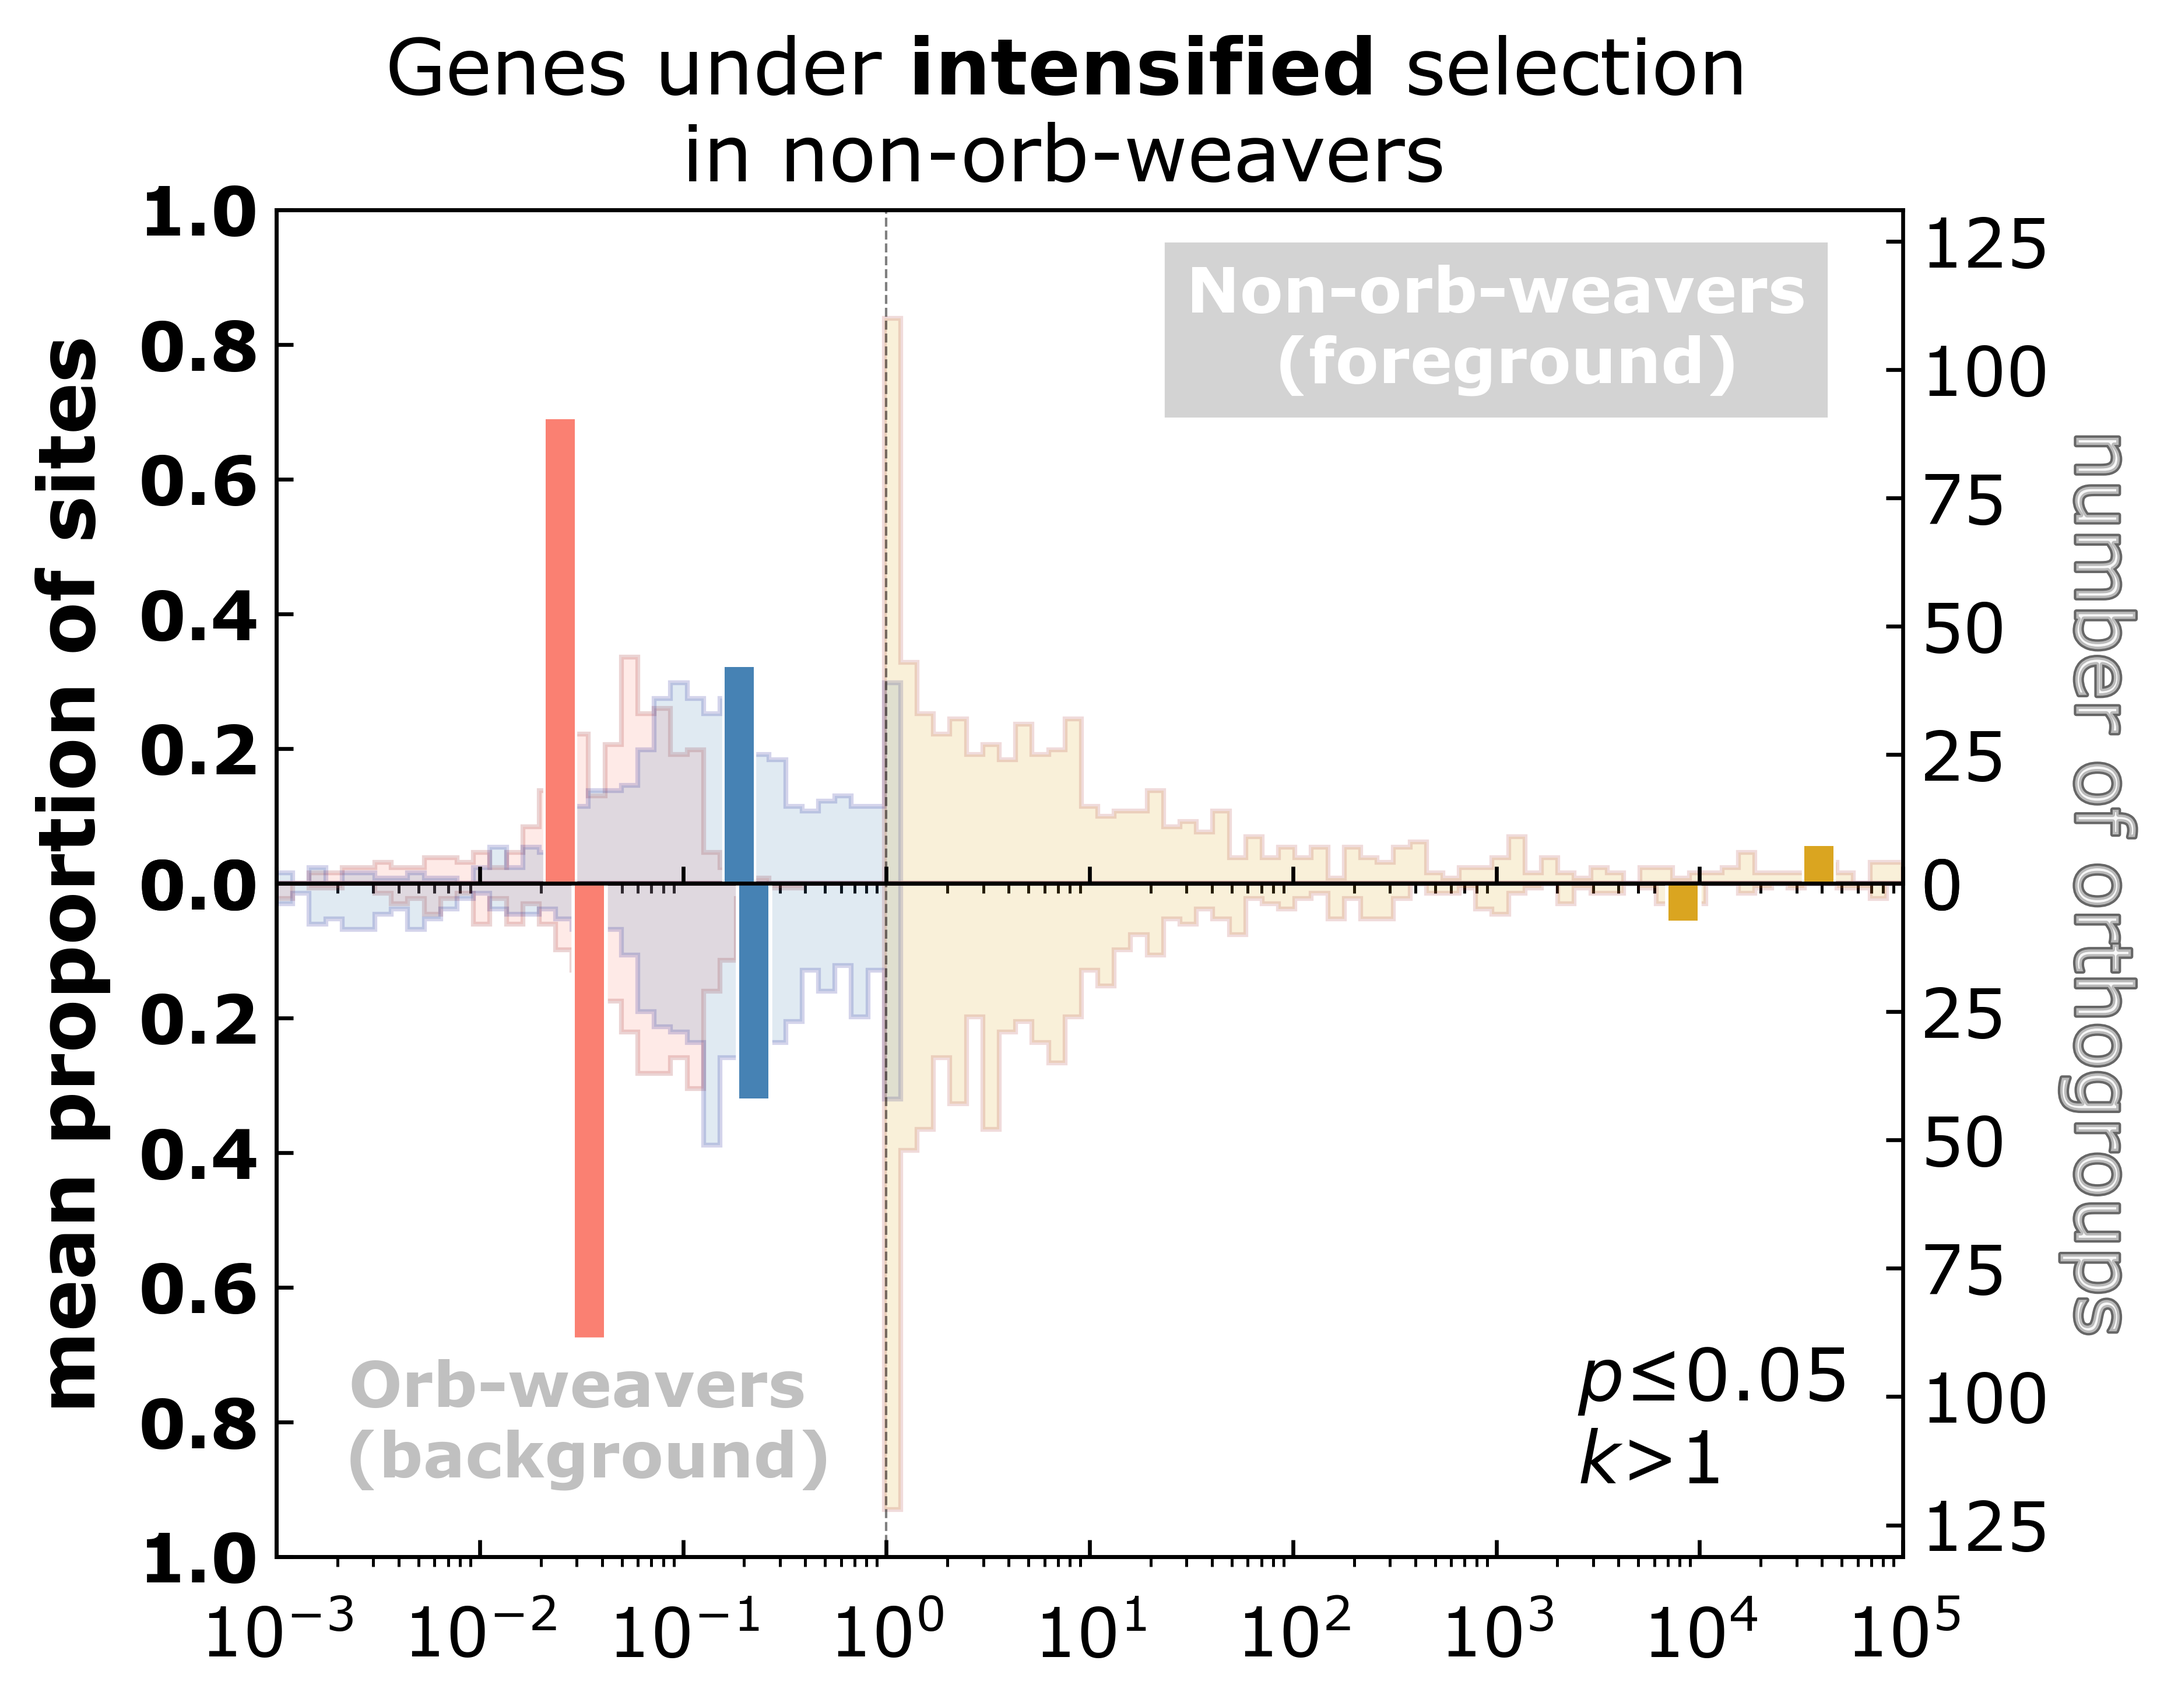
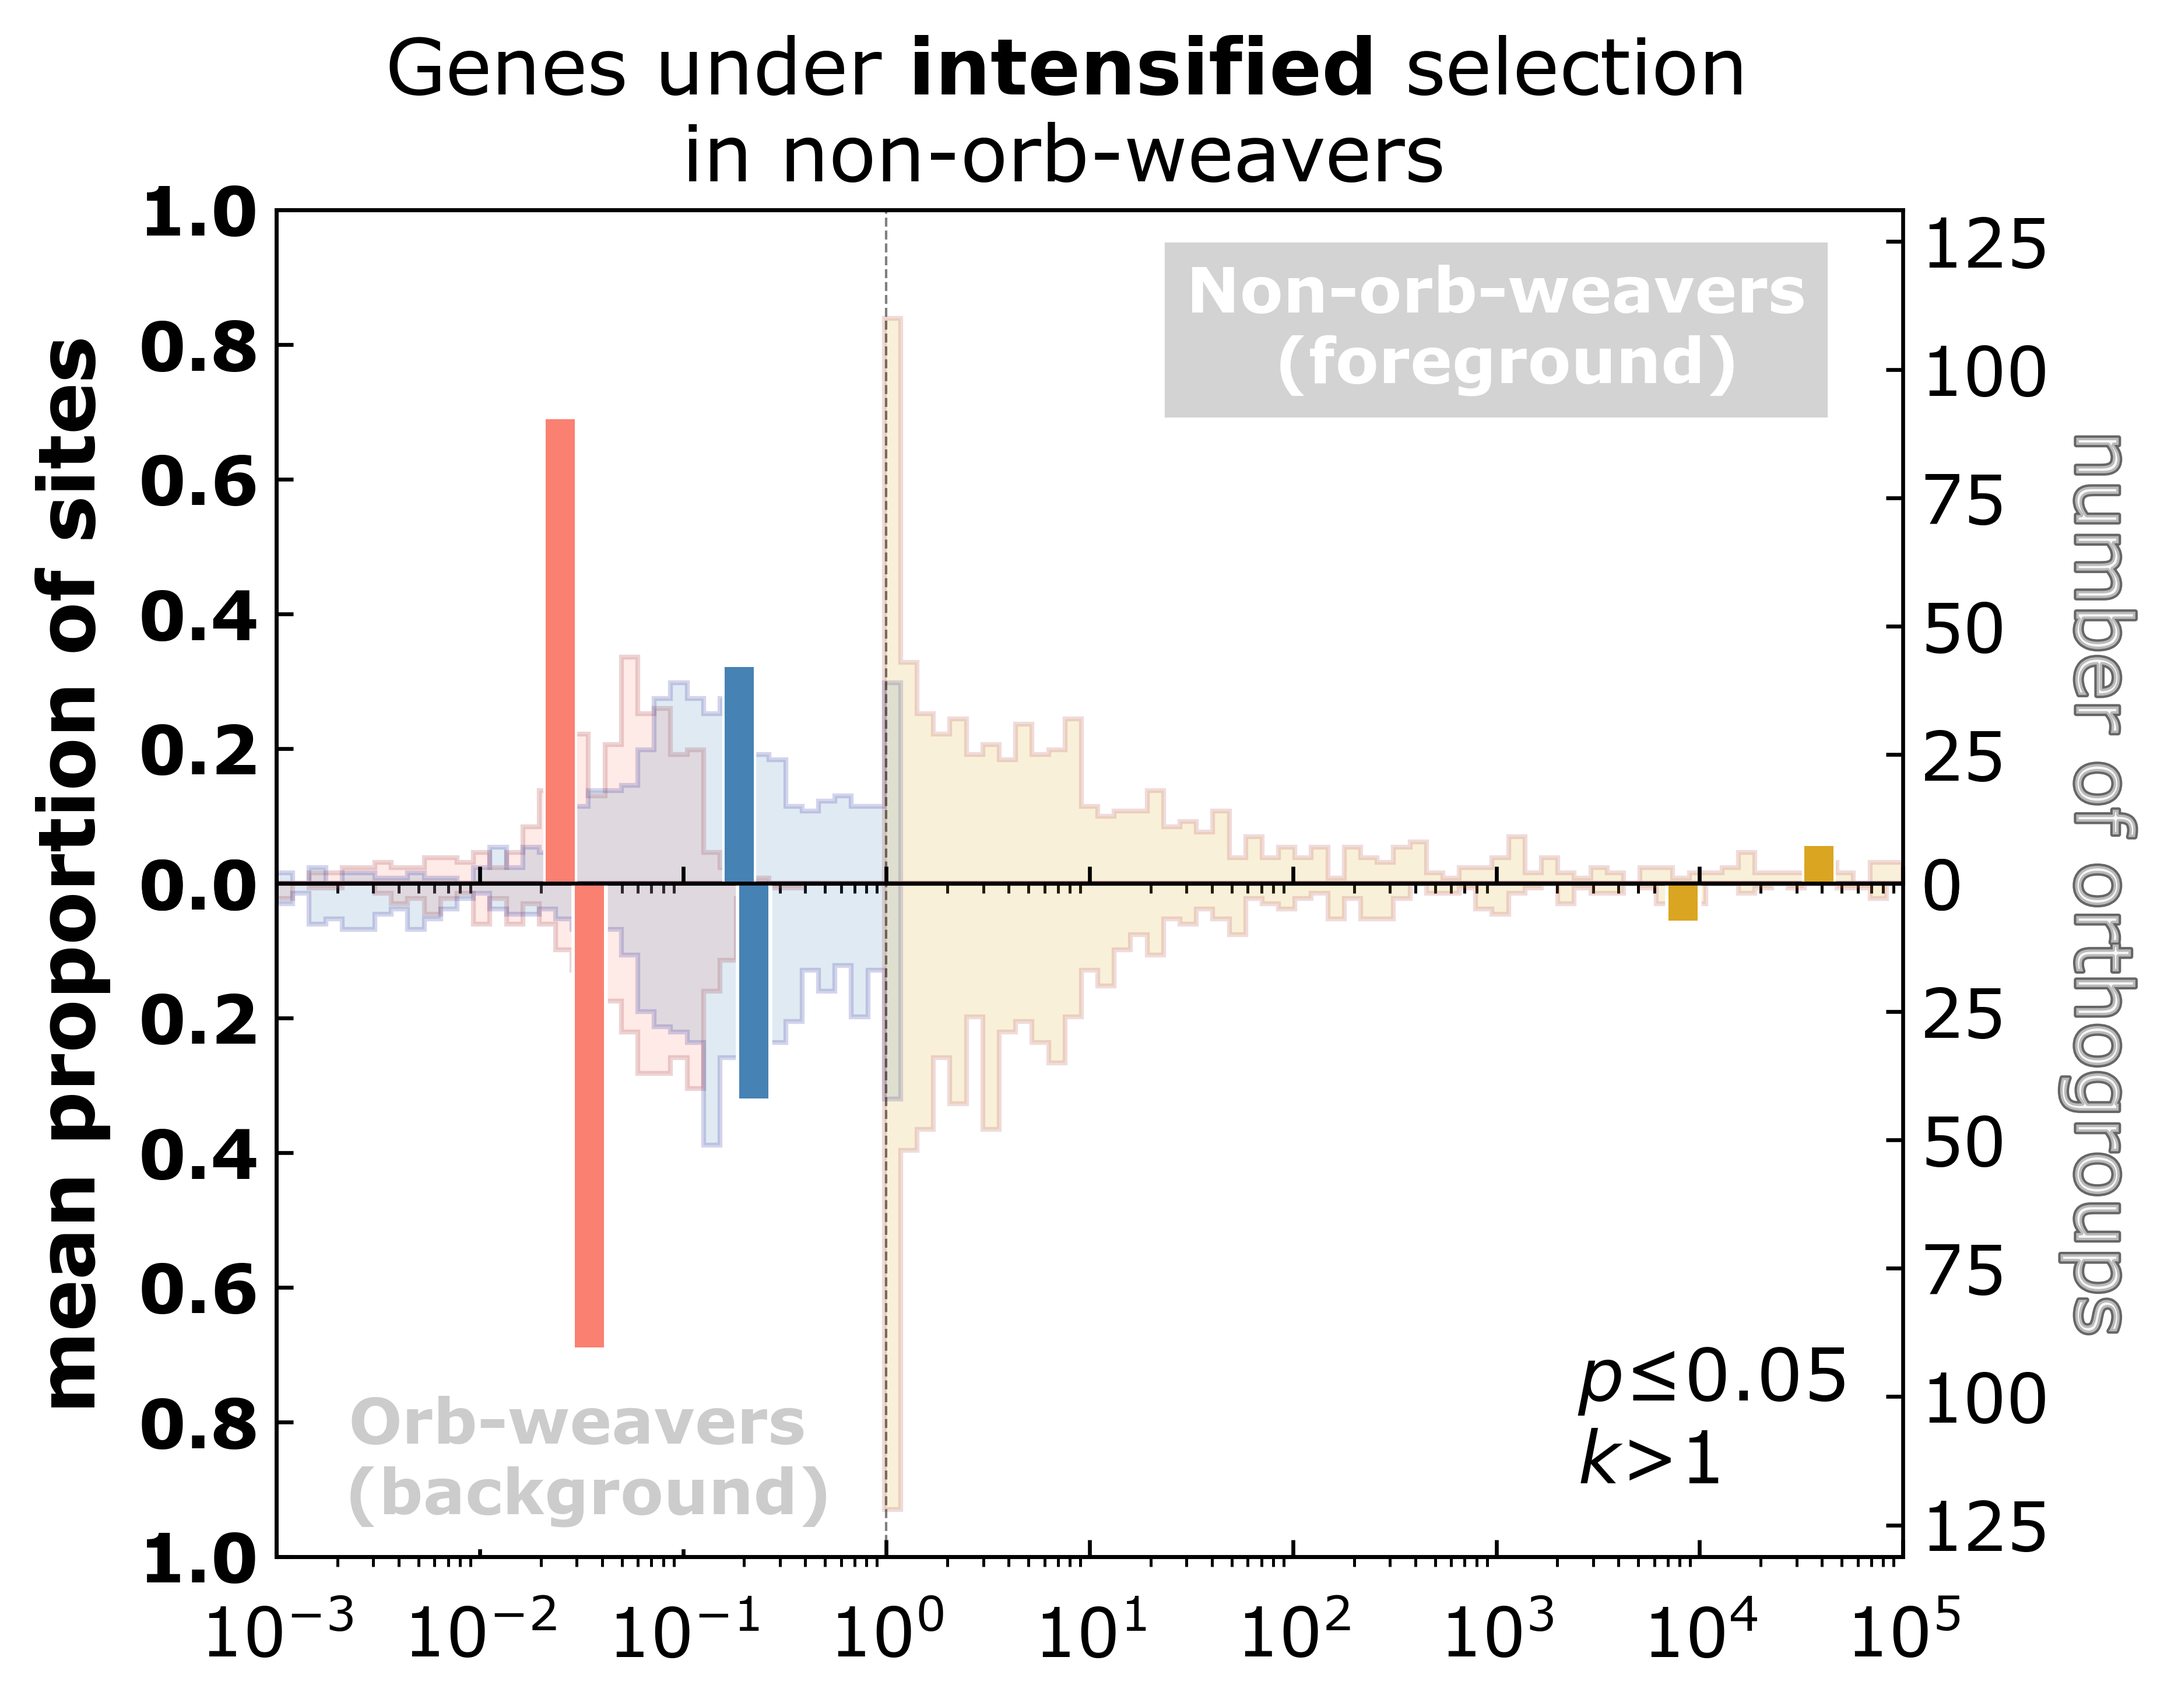
move bg text box

Changed region(s): [[0.1557, 0.7775, 0.4049, 0.9019]]

diff --git a/scripts/07_figures_tables/omega_plots_consolidated.py b/scripts/07_figures_tables/omega_plots_consolidated.py
@@ -177,7 +177,7 @@ def plot_omega_distributions(
             weight='bold', backgroundcolor='lightgray',
         )
         ax_avgs2.set_title(
-            bottom_title, x=bottom_title_x, y=0.075, fontsize=13,
+            bottom_title, x=bottom_title_x, y=0.02, fontsize=13, alpha=0.8,
             color='silver', weight='bold', backgroundcolor='white',
         )
 
